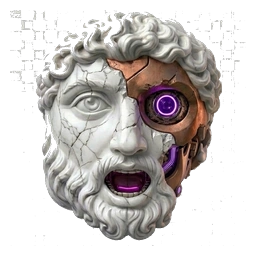
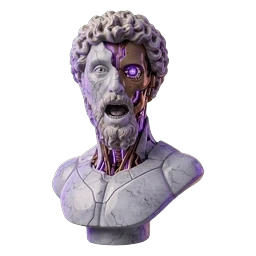
feat(arte): nuevas caras calibradas y assets de secuencia para selector de perfil

diff --git a/public/assets/widget.css b/public/assets/widget.css
@@ -33,9 +33,47 @@
 
 /* La cabeza del Preceptor. El ojo lo pone el router segun el companero
    activo: es con quien hablas, dicho sin una palabra. */
-#cabeza{width:52px;height:52px;flex:0 0 52px;background-image:url("/assets/caras/avatar-fijo.webp");background-repeat:no-repeat;
-  background-position:center;background-size:cover;
-  border:2px solid var(--bronce);border-radius:50%}
+/* 78 px y no 52: un 50 % mas, firmado. A 52 el ojo no se veia.
+   Las tres tiras y los tres tiempos son los MISMOS ficheros y los mismos
+   valores que en la app (`preceptor/interface/dashboard.css`): una cara, dos
+   capas, una sola verdad. `chat-router.js` sigue pudiendo pisar la imagen con
+   el ojo del companero activo -- es un estilo en linea y gana. */
+:root{--cara-web:78px;--anim-apertura:3.75s;--anim-reposo:32s;--anim-habla:.72s}
+#cabeza{width:var(--cara-web);height:var(--cara-web);flex:0 0 var(--cara-web);
+  background:url("/assets/caras/secuencia-apertura-256.webp") 0% 50%/700% auto no-repeat;
+  border:2px solid var(--bronce);border-radius:50%;
+  animation:cara-abre var(--anim-apertura) linear 1 both}
+/* Paradas en porcentaje y no `steps()`: el tercer fotograma dura la mitad.
+   Cada uno se declara dos veces --entrada y el instante antes del siguiente--
+   para que el navegador no interpole y la cara no se deslice entre dibujos. */
+@keyframes cara-abre{
+  0%,13.32%{background-position:0% 50%}
+  13.33%,26.66%{background-position:16.667% 50%}
+  26.67%,33.32%{background-position:33.333% 50%}
+  33.33%,46.66%{background-position:50% 50%}
+  46.67%,59.99%{background-position:66.667% 50%}
+  60%,73.32%{background-position:83.333% 50%}
+  73.33%,100%{background-position:100% 50%}}
+/* Reposo: cuatro colores, ocho segundos cada uno. El fundido va en una
+   animacion aparte que baja la opacidad justo en el salto, asi el cambio se
+   ve como un fundido sin apilar dos capas. */
+#cabeza.despierto{background-image:url("/assets/caras/secuencia-reposo-256.webp");
+  background-size:400% auto;
+  animation:cara-reposo var(--anim-reposo) steps(3,jump-none) infinite,
+            cara-fundido 8s ease-in-out infinite}
+@keyframes cara-reposo{from{background-position:0% 50%}to{background-position:100% 50%}}
+@keyframes cara-fundido{0%,6%,94%,100%{opacity:.55}20%,80%{opacity:1}}
+/* Hablando: cuatro bocas al 400 %. El tamano se declara aqui a proposito --
+   heredar el 700 % de la apertura sacaria media vuelta fuera del marco y
+   dejaria un parpadeo de alto contraste a ritmo constante. */
+#cabeza.hablando{background-image:url("/assets/caras/secuencia-habla-256.webp");
+  background-size:400% auto;opacity:1;
+  animation:cara-habla var(--anim-habla) steps(4,jump-none) infinite}
+@keyframes cara-habla{from{background-position:0% 50%}to{background-position:100% 50%}}
+@media (prefers-reduced-motion:reduce){
+  #cabeza,#cabeza.despierto,#cabeza.hablando{animation:none;opacity:1;
+    background-image:url("/assets/caras/secuencia-apertura-256.webp");
+    background-size:700% auto;background-position:100% 50%}}
 
 #cab-nav{display:flex;gap:.4rem;flex-wrap:wrap;align-items:center}
 .cab-boton{font:inherit;font-size:.74rem;font-weight:700;letter-spacing:.09em;
@@ -77,7 +115,7 @@
      rail de companeros aunque el texto no lo hiciera. */
   .honest-footer{margin-right:4.2rem}
   #cabezal h1{font-size:.95rem;margin:0 0 .25rem}
-  #cabeza{width:40px;height:40px;flex-basis:40px}
+  #cabeza{width:60px;height:60px;flex-basis:60px}
   .cab-boton{font-size:.66rem;padding:.26rem .5rem;letter-spacing:.06em}
   .cab-leve{font-size:.64rem;padding:.2rem .25rem}
   #cab-nav{gap:.25rem;margin-top:.1rem}

diff --git a/public/assets/chat-router.js b/public/assets/chat-router.js
@@ -183,4 +183,19 @@
      la primera pantalla del producto era una caja muda que no decia que
      hubiera que tocarla. Lo que se vino a hacer es hablar. Quien no quiera
      escribir todavia, no toca el campo; el teclado solo sube si lo pulsas. */
+
+  /* La cara del cabezal, cableada a los avisos QUE YA EXISTEN.
+     `chat.js` no se toca: le quedan 111 B y ya emite `preceptor:hablando` al
+     primer trozo y `preceptor:turno` al cerrar. Aqui solo se escucha. */
+  if (cabeza) {
+    cabeza.addEventListener('animationend', function (e) {
+      if (e.animationName === 'cara-abre') cabeza.classList.add('despierto');
+    });
+    document.addEventListener('preceptor:hablando', function () {
+      cabeza.classList.add('hablando');
+    });
+    document.addEventListener('preceptor:turno', function () {
+      cabeza.classList.remove('hablando');
+    });
+  }
 })();
